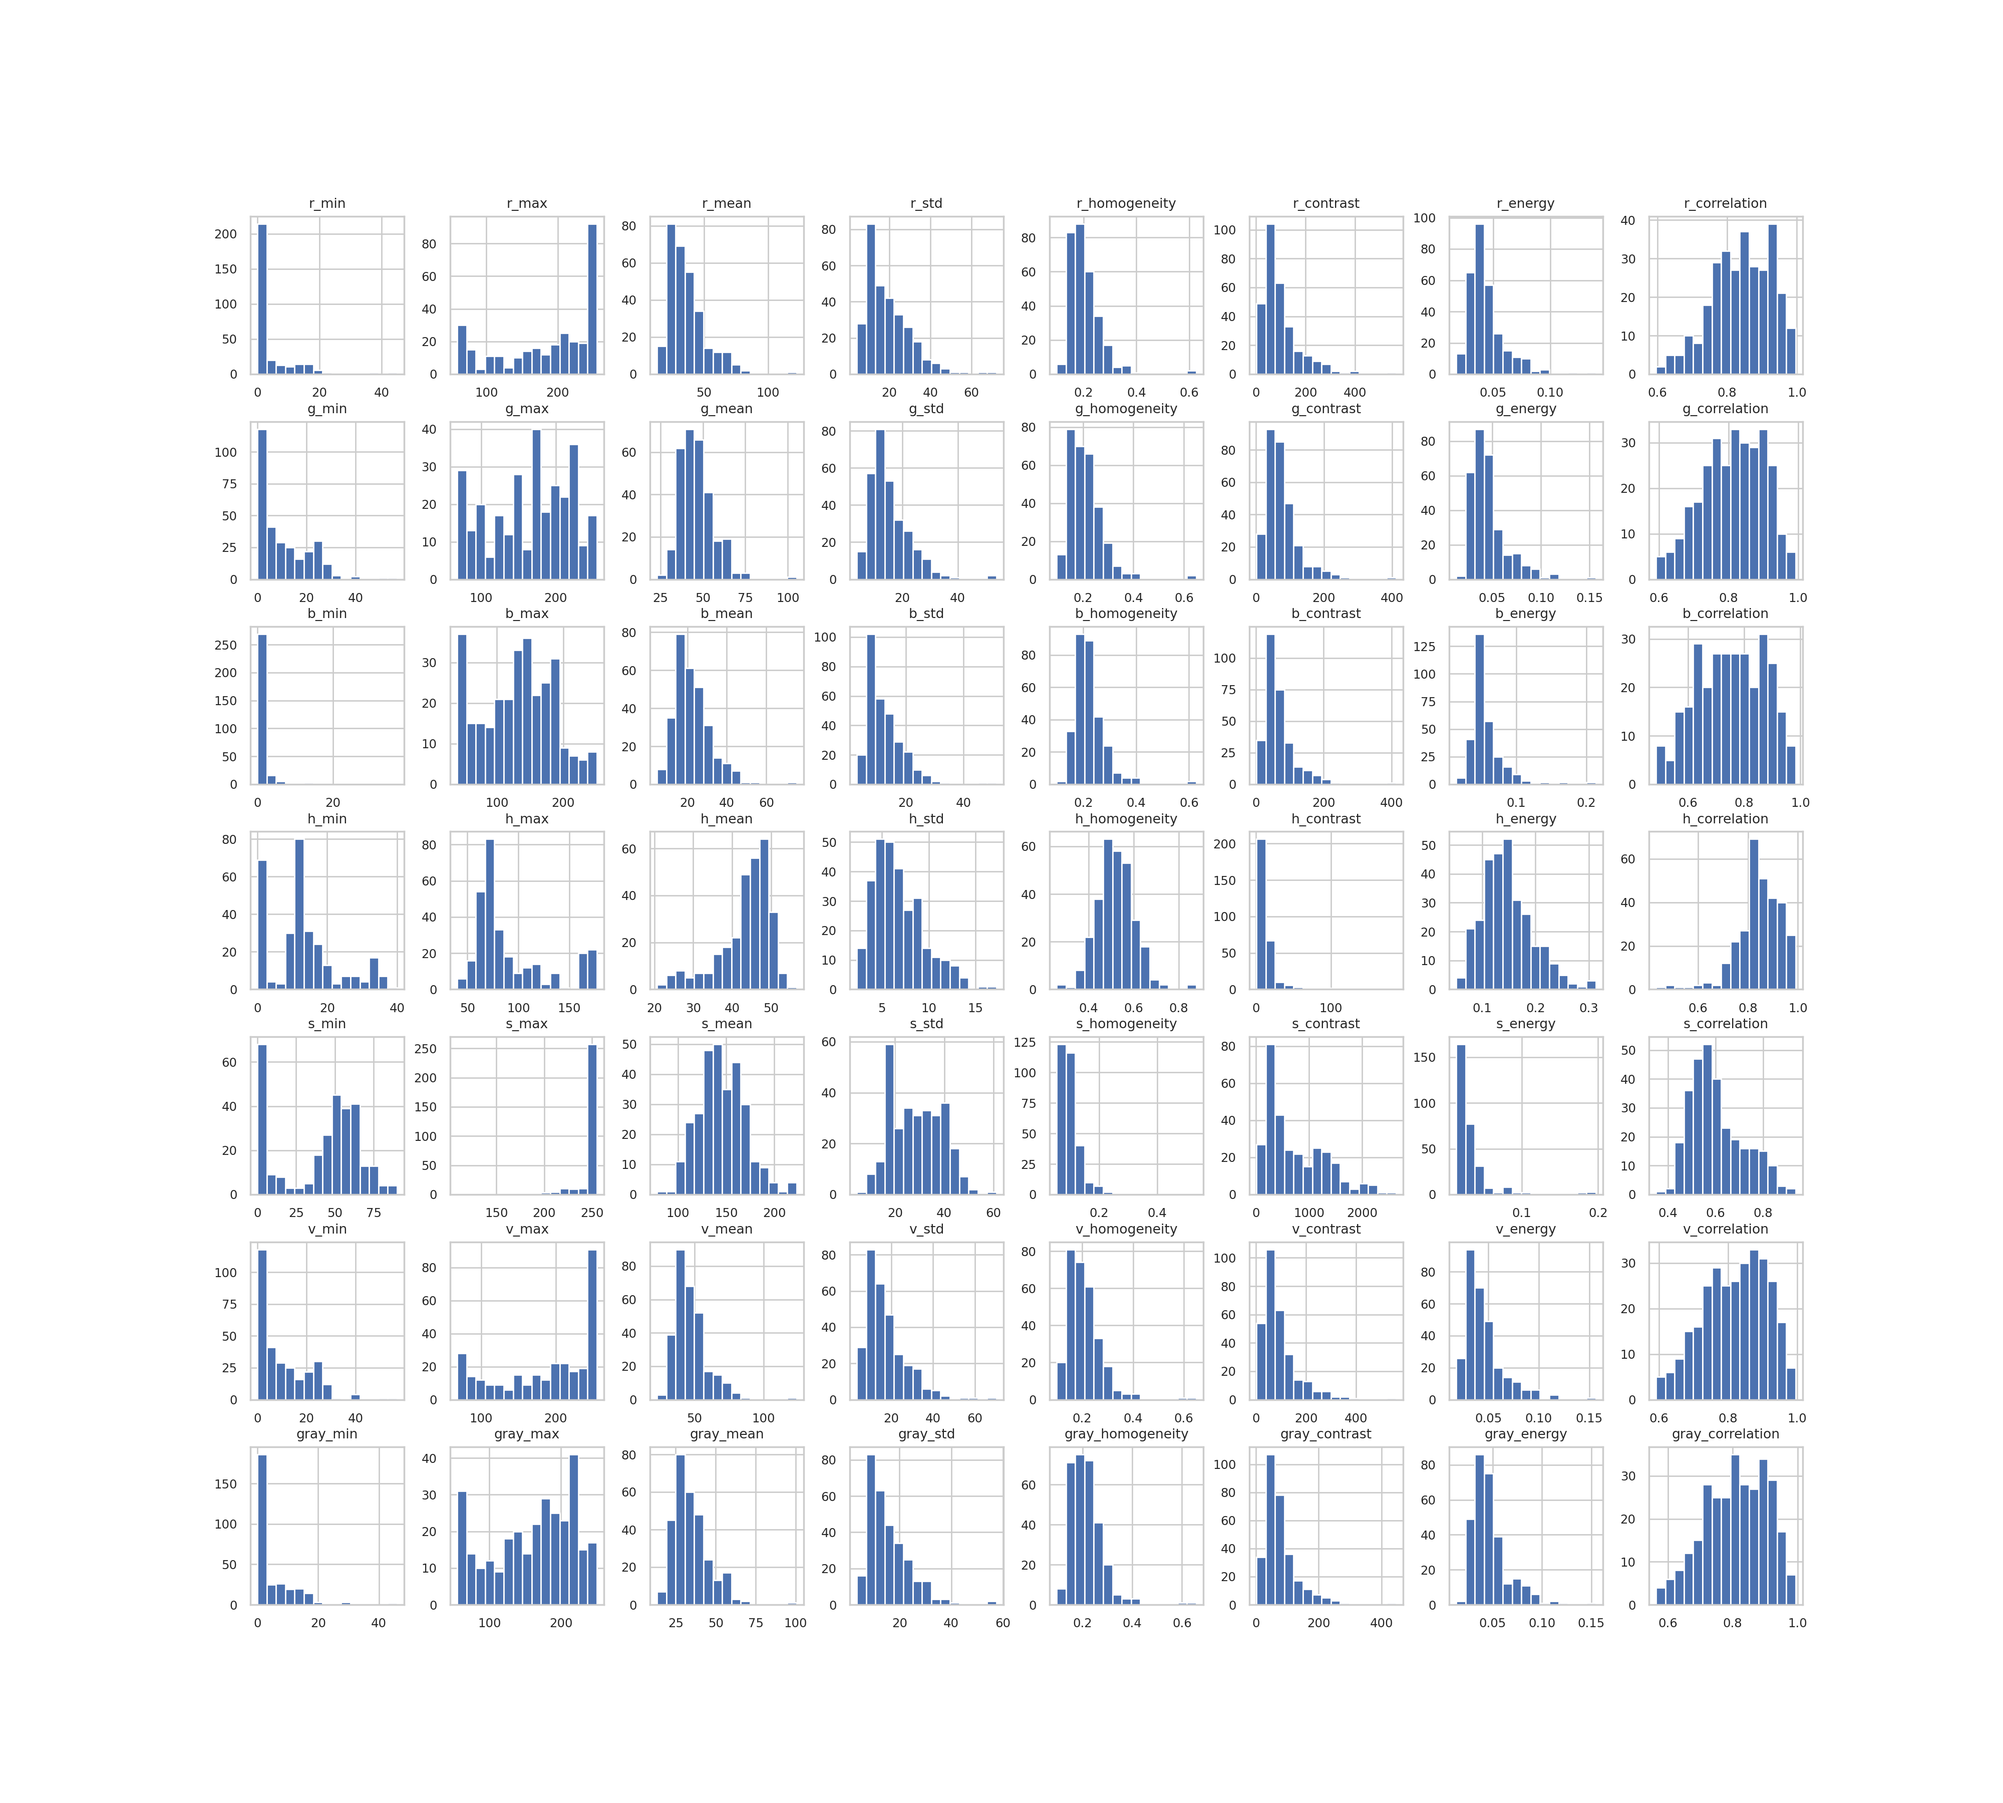
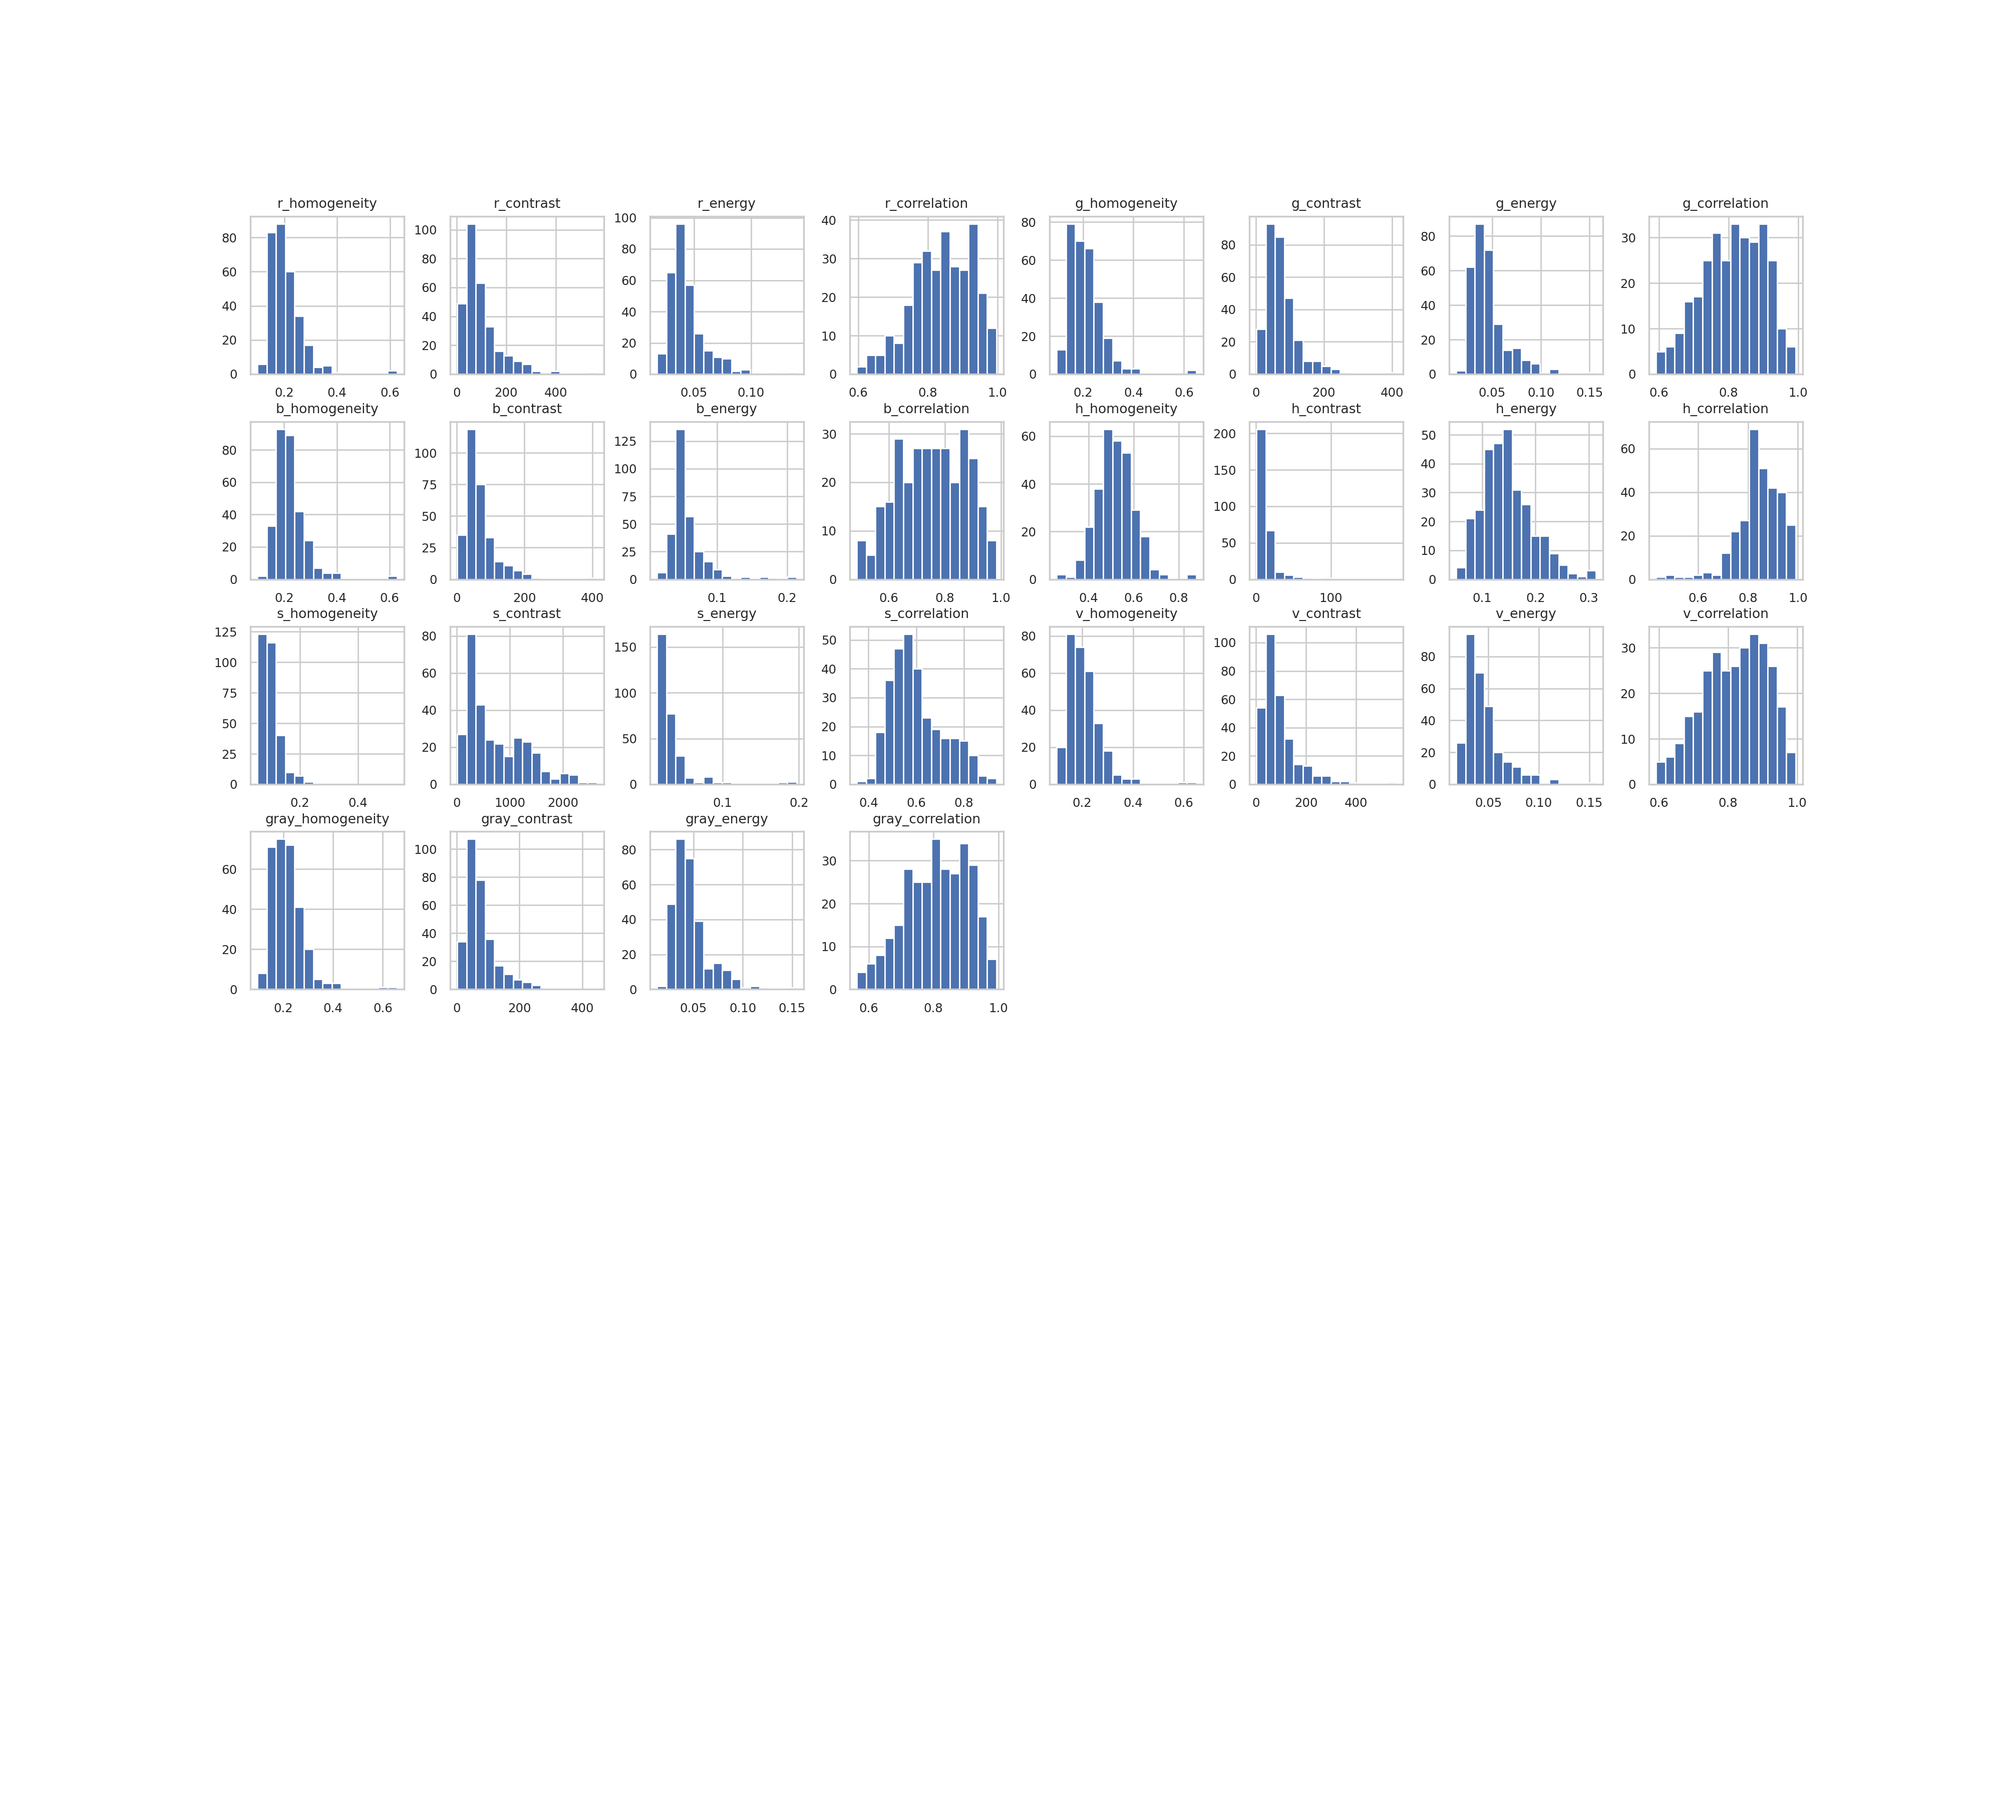
Dataset file

diff --git a/features_palmoil.py b/features_palmoil.py
@@ -36,10 +36,9 @@ def parse_args():
     # Data config
     parser.add_argument('--dataset_split', type=str, default='70,20,10', help='Percentage of dataset allocated to each set (train,val,test).')
     parser.add_argument('--rgb_imgs', type=str, default='True', help='If true, assume RGB images - else, assume gray images.')
-    parser.add_argument('--glcm_only', type=str, default='False', help='If true, assume RGB images - else, assume gray images.')
+    parser.add_argument('--glcm_only', type=str, default='True', help='If true, assume RGB images - else, assume gray images.')
     
     # EDA
-    parser.add_argument('--eda', type=str, default='True', help='If true, carry out exploratory data analysis (EDA).')
     parser.add_argument('--eda_rdm_img', type=str, default='True', help='If true, show random images (EDA).')
     parser.add_argument('--eda_rdm_img_num', type=int, default=5, help='Number of random images to show.')
     
@@ -68,7 +67,6 @@ class DS_aux(Image_Funcs):
                  ):
         super().__init__(args, label_code)
         self.data_split()
-
     
     def data_split(self):
         
@@ -178,8 +176,11 @@ class DS_aux(Image_Funcs):
             class_feats_df = pd.DataFrame({
                 }).assign(**{col_name:np.concatenate(class_feats_df_raw[col_name].values)
                             for col_name in class_feats_df_raw.columns.tolist()})
-                
-            len_column = len(class_feats['r']['min'])
+            try:                
+                len_column = len(class_feats['r']['min'])
+            except:
+                len_column = len(class_feats['r']['homogeneity'])
+            
             label_arr = np.ones(len_column).astype(np.uint8)*self.label_code[lbl_clss]
             class_feats_df = class_feats_df.assign(label=label_arr)
             
@@ -234,10 +235,8 @@ class DS_aux(Image_Funcs):
         
         print("Calculating features' correlation to label...")
         label_corr = {}
-        label_thresh = 0.8
-        while not label_corr:
-            feat_corr, val_corr, label_corr = high_corr_label(full_stats_df, threshold = label_thresh)
-            label_thresh -= 0.3
+        label_thresh = 0.0
+        feat_corr, val_corr, label_corr = high_corr_label(full_stats_df, threshold = label_thresh)
         
         label_corr_df = pd.DataFrame.from_dict(label_corr,orient='index')
         label_corr_df.to_csv("./plots/label_corr.csv")
@@ -304,63 +303,30 @@ class DS_aux(Image_Funcs):
             full_mat = self.img2np(self.imgs_dir, clss_imgs)
             pca = self.class_eigen_imgs(full_mat)
             self.plot_pca(pca, lbl_clss)
-        
-    def eda(self):
-        # random images
-        if self.args.eda_rdm_img == "True":
-            self.show_rdm_imgs()
-            
-        # average image for each class
-        if self.args.eda_mean_img == "True":
-            self.mean_image()
-
-        # eigenfaces
-        if self.args.eda_eigen_img == "True":
-            self.eigen_imgs()
-
-        if self.args.eda_metrics_distr == "True":
-            self.metrics_distr()
 
 def main(args):
     
     np.random.seed(args.seed)
-    
-    #use cuda 
-    device = torch.device("cuda:0" if torch.cuda.is_available() else "cpu")
-    torch.backends.cudnn.benchmark = True
-    
-    # dataset generator params
-    params = {'batch_size': 1,
-          'shuffle': True,
-          'num_workers': 2}
-    
+        
     dataset_info = DS_aux(args)
     
-    if args.eda == "True":
-        dataset_info.eda()
+    # plot random images
+    if args.eda_rdm_img == "True":
+        dataset_info.show_rdm_imgs()
+        
+    # average image for each class
+    if args.eda_mean_img == "True":
+        dataset_info.mean_image()
+
+    # eigenimages
+    if args.eda_eigen_img == "True":
+        dataset_info.eigen_imgs()
+
+    # feature distribution
+    if args.eda_metrics_distr == "True":
+        dataset_info.metrics_distr()
     
-    """
-    for i in range(1,dataset_info.num_folds+1):
-        # TO-DO: turn this into a function
-        train_imgs = dataset_info.folds["fold_"+str(i)]['train']
-        train_labels = dataset_info.folds["fold_"+str(i)]['train_labels']
-        train_set = Dataset(args,train_imgs,train_labels)
-        train_gen = torch.utils.data.DataLoader(train_set, **params)
-        
-        val_imgs = dataset_info.folds["fold_"+str(i)]['val']
-        val_labels = dataset_info.folds["fold_"+str(i)]['val_labels']
-        val_set = Dataset(args,val_imgs,val_labels)
-        val_gen = torch.utils.data.DataLoader(val_set, **params)
-        
-        for epoch in range(1):
-            print(f"Training - epoch: {epoch}")
-            for imgs, labels, idxs in tqdm(train_gen):
-                imgs, labels = imgs.to(device), labels.to(device) 
-            
-            print(f"Validating - epoch: {epoch}")
-            for imgs, labels, idxs in tqdm(val_gen):
-                imgs, labels = imgs.to(device), labels.to(device) 
-    """
+    
 if __name__ == "__main__":
     args = parse_args()
     main(args)

diff --git a/train.py b/train.py
@@ -1,0 +1,132 @@
+import numpy as np
+import os
+from matplotlib import pyplot as plt
+
+from features_palmoil import DS_aux
+
+import argparse
+from tqdm import tqdm
+"""
+r_energy	0.21
+r_correlation	0.25
+r_contrast	0.28
+r_homogeneity	0.34
+s_correlation	0.38
+g_energy	0.4
+h_correlation	0.41
+s_contrast	0.66
+"""
+
+def parse_args():
+    parser = argparse.ArgumentParser(description='Config')
+    
+    parser.add_argument('--root', type=str, default='./data/widsfixed/', help='Directory where files are.')
+    parser.add_argument('--seed', type=int, default=0, help='Seed for random numbers.')
+    
+    # Data config
+    parser.add_argument('--dataset_split', type=str, default='70,20,10', help='Percentage of dataset allocated to each set (train,val,test).')
+    
+    args = parser.parse_args()
+    return args
+
+
+class PalmOilDataset(DS_aux):
+    
+    def __init__(self, args,
+                 label_code={'No_OilPalm':0,
+                             'Has_OilPalm':1}):
+        super().__init__(args,label_code)
+    
+    def norm_features(self):
+        
+        # Per-fold normalization
+        
+        """
+        self.norm_vals_dict = {
+            'fold_1': {
+                'feat_1':[mean, std],
+                'feat_2':[mean, std]
+            },
+            'fold_2': {
+                'feat_1':[mean,std],
+                ...
+            },
+            ...
+        }
+        
+        # test set is normalized with the fold that has the best metrics
+        
+        """
+        pass
+    
+    def calculate_features(self, img):
+        
+        stats_calc = {
+                'r_energy'     : np.min,
+                'r_correlation': np.max,
+                'r_contrast'   : np.mean,
+                'r_homogeneity': np.std,
+                's_correlation': self.get_glcm_metrics,
+                'g_energy'     : self.get_glcm_metrics,
+                'h_correlation': self.get_glcm_metrics,
+                's_contrast'   : self.get_glcm_metrics
+            }
+        
+        features = np.zeros((8))
+        
+        return features
+    
+    def calc_set_feats(self, img_files, init_set_feats):
+        """
+        Read images, calculate features, store it in array, return array
+        """
+        for idx, img_file in enumerate(tqdm(img_files)):
+            img_path = os.path.join(self.imgs_dir,img_file)
+            img = plt.imread(img_path)
+            img_feats = self.calculate_features(img)
+            init_set_feats[idx] = img_feats
+        return init_set_feats
+    
+    def generate_features(self):
+        # similar to img_utils func but to all of the imgs
+        
+        fold_features = {}
+        
+        for fold, fold_info in self.folds.items():
+
+            fold_features[fold] = {}
+            
+            init_train_feats = np.zeros((len(fold_info['train']),8)) # 8 features were chosen
+            init_val_feats = np.zeros((len(fold_info['val']),8))
+
+            print(f"Calculating train set features for {fold}")
+            init_train_feats = self.calc_set_feats(fold_info['train'], init_train_feats)
+            
+            print(f"Calculating validation set features for {fold}")
+            init_val_feats = self.calc_set_feats(fold_info['val'], init_val_feats)
+            
+            fold_features[fold]['train'] = init_train_feats
+            fold_features[fold]['val'] = init_val_feats
+            fold_features[fold]['train_labels'] = fold_info['train_labels']
+            fold_features[fold]['val_labels'] = fold_info['val_labels']
+        
+        
+        # similar to dataset split, but instead of img file, img features
+        # feat_vals = {
+            # 'fold_1' :
+        # }
+        
+        
+        pass
+    
+    
+    
+    
+def main(args):
+    dataset = PalmOilDataset(args)
+    dataset.generate_features()
+    
+
+if __name__ == "__main__":
+    args = parse_args()
+    main(args)

diff --git a/img_utils.py b/img_utils.py
@@ -201,7 +201,11 @@ class Image_Funcs():
         for file in tqdm(clss_imgs):
             
             # get indx of unfilled stat
-            available_indxs = np.where(channel_stats['r']['min']==-1)[0]
+            try:
+                available_indxs = np.where(channel_stats['r']['min']==-1)[0]
+            except:
+                available_indxs = np.where(channel_stats['r']['homogeneity']==-1)[0]
+            
             if not available_indxs.any():
                 break
             stats_indx = np.min(available_indxs)
@@ -280,7 +284,9 @@ class Image_Funcs():
                 channel = img_hsv[..., idx]
                 plot_img(num_imgs, plt_img_counter, channel, f"{hsv[idx]}:{total_img_counter}")
                 plt_img_counter += 1
-        
+
+            total_img_counter += 1
+            
         plt.rcParams.update({'font.size': 8})
         
         #plt.show()
